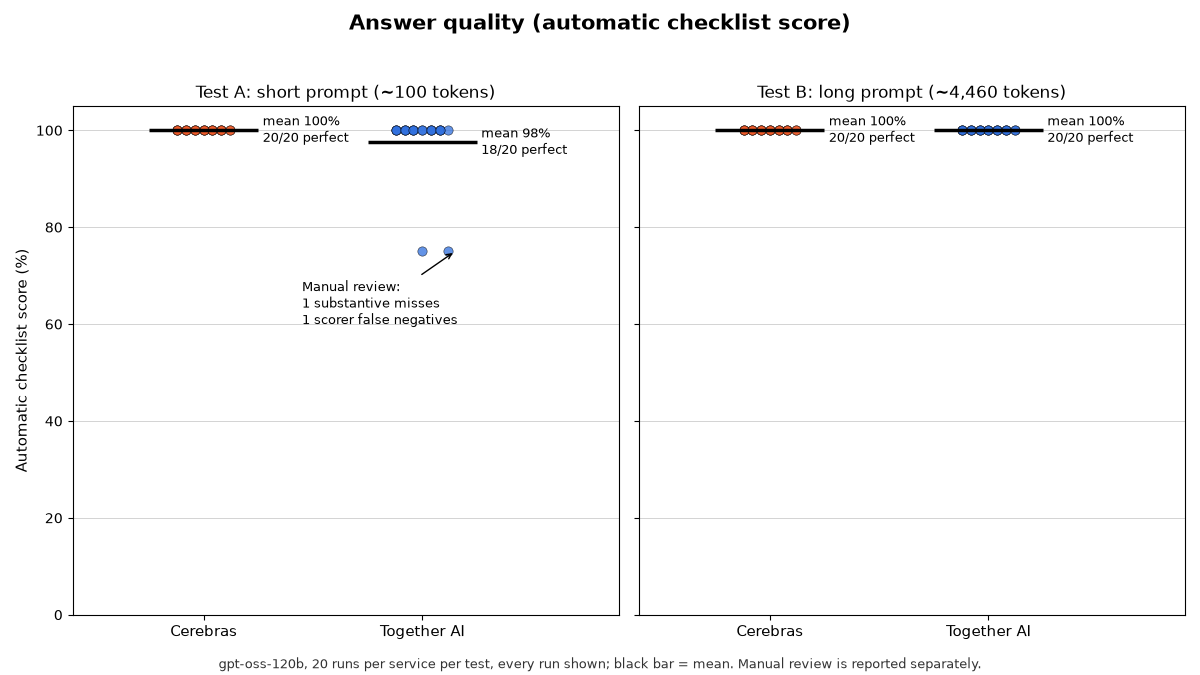
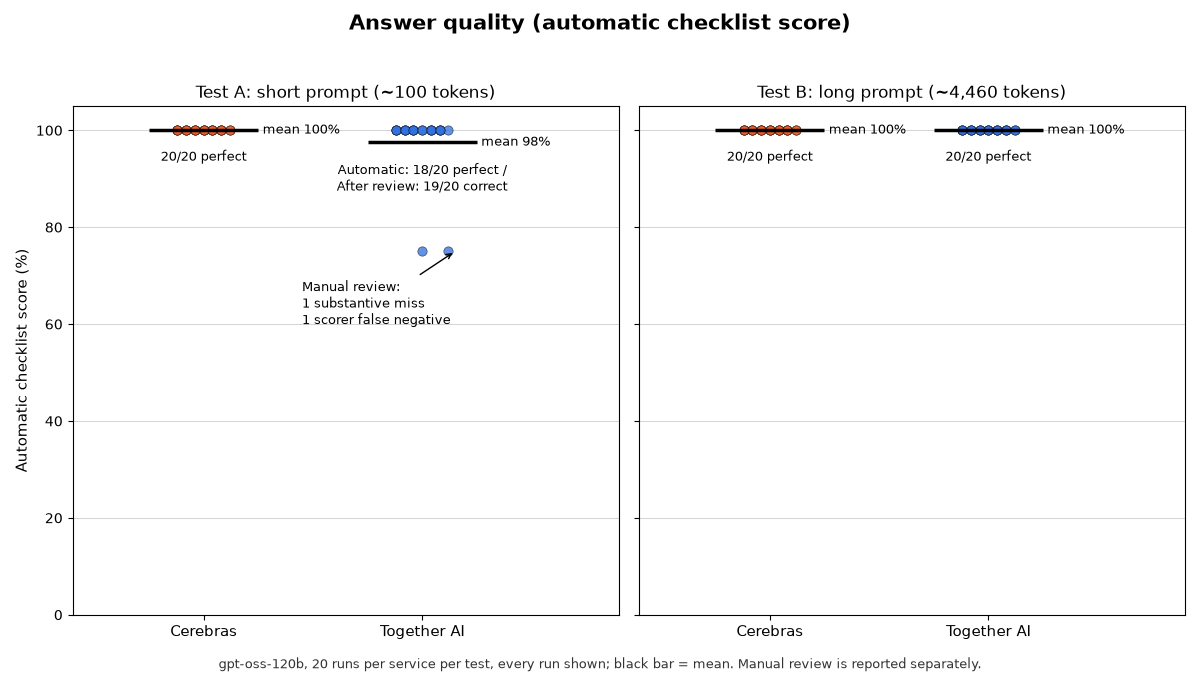
Charts: linear time axis from 0, cap output speed at 3,500 with outlier marker, review-adjusted quality label

diff --git a/analyze.py b/analyze.py
@@ -38,8 +38,7 @@ SERVICE_LABELS = {"cerebras": "Cerebras", "together": "Together AI"}
 SERVICE_COLORS = {"cerebras": "#F05A28", "together": "#2F6FDE"}
 TEST_LABELS = {"short": "Test A: short prompt (~100 tokens)", "long": "Test B: long prompt (~4,460 tokens)"}
 DELAY_THRESHOLD_S = 10  # first answer chunk later than this counts as a delayed request
-LOG_TICKS = (0.2, 0.5, 1, 2, 5, 10, 20, 50)
-
+OUTPUT_SPEED_Y_MAX = 3500  # faster short-stream runs are chunk-timing artifacts; drawn as markers at the top edge
 
 def load_measured():
     records = [json.loads(line) for line in SCORED_FILE.open(encoding="utf-8")]
@@ -110,13 +109,25 @@ def markdown_table(summary):
     return "\n".join(lines)
 
 
-def strip_chart(frame, metric, title, y_label, output_path, log_scale=False):
+def count_phrase(count, singular, plural):
+    return f"{count} {singular if count == 1 else plural}"
+
+
+def strip_chart(frame, metric, title, y_label, output_path, y_max=None):
     fig, axes = plt.subplots(1, 2, figsize=(12, 6.75), dpi=100, sharey=True, facecolor="white")
     for axis, test in zip(axes, TESTS):
         for position, service in enumerate(SERVICES):
             values = frame[(frame["test"] == test) & (frame["service"] == service) & frame["error"].isna()][metric].dropna()
             offsets = [position + ((i % 7) - 3) * 0.04 for i in range(len(values))]
-            axis.scatter(offsets, values, s=45, alpha=0.75, color=SERVICE_COLORS[service], edgecolor="black", linewidth=0.4, zorder=3)
+            in_range = [(offset, value) for offset, value in zip(offsets, values) if y_max is None or value <= y_max]
+            above_range = [(offset, value) for offset, value in zip(offsets, values) if y_max is not None and value > y_max]
+            axis.scatter([offset for offset, _ in in_range], [value for _, value in in_range], s=45, alpha=0.75,
+                         color=SERVICE_COLORS[service], edgecolor="black", linewidth=0.4, zorder=3)
+            for offset, value in above_range:
+                axis.scatter(offset, y_max, s=90, marker="^", color=SERVICE_COLORS[service],
+                             edgecolor="black", linewidth=0.6, zorder=5, clip_on=False)
+                axis.annotate(f"{value:,.0f} (timing artifact, see note)", (offset, y_max),
+                              xytext=(12, -4), textcoords="offset points", va="top", fontsize=9, color="black")
             median = values.median()
             axis.hlines(median, position - 0.25, position + 0.25, color="black", linewidth=2.5, zorder=4)
             axis.annotate(f"median {median:,.2f}" if median < 100 else f"median {median:,.0f}",
@@ -137,15 +148,7 @@ def strip_chart(frame, metric, title, y_label, output_path, log_scale=False):
         axis.set_title(TEST_LABELS[test], fontsize=12)
         axis.grid(axis="y", color="#cccccc", linewidth=0.6, zorder=0)
         axis.set_facecolor("white")
-        if log_scale:
-            axis.set_yscale("log")
-    if log_scale:
-        low, high = axes[0].get_ylim()
-        ticks = [tick for tick in LOG_TICKS if low <= tick <= high]
-        axes[0].set_yticks(ticks, [f"{tick:g}" for tick in ticks])
-        axes[0].set_ylim(low, high)
-        for axis in axes:
-            axis.minorticks_off()
+    axes[0].set_ylim(0, y_max)
     axes[0].set_ylabel(y_label, fontsize=11)
     fig.suptitle(title, fontsize=15, fontweight="bold")
     fig.text(0.5, 0.01, "gpt-oss-120b, 20 runs per service per test, every run shown; black bar = median. "
@@ -169,15 +172,19 @@ def quality_chart(frame, manual_verdicts, output_path):
             perfect_count = int((scores == 100).sum())
             axis.hlines(mean_score, position - 0.25, position + 0.25,
                         color="black", linewidth=2.5, zorder=4)
-            axis.annotate(
-                f"mean {mean_score:.0f}%\n{perfect_count}/{len(scores)} perfect",
-                (position + 0.27, mean_score), va="center", fontsize=9, color="black",
-            )
             missed = runs[runs["quality_score"] < runs["quality_max"]]
+            verdicts = [verdict_by_run.get((service, run_id)) for run_id in missed["run_id"]]
+            correct_after_review = perfect_count + verdicts.count("correct")
+            axis.annotate(f"mean {mean_score:.0f}%", (position + 0.27, mean_score), va="center", fontsize=9, color="black")
+            if correct_after_review == perfect_count:
+                count_label = f"{perfect_count}/{len(scores)} perfect"
+            else:
+                count_label = (f"Automatic: {perfect_count}/{len(scores)} perfect /\n"
+                               f"After review: {correct_after_review}/{len(scores)} correct")
+            axis.annotate(count_label, (position, mean_score - 4), ha="center", va="top", fontsize=9, color="black")
             if len(missed):
-                verdicts = [verdict_by_run.get((service, run_id)) for run_id in missed["run_id"]]
-                parts = [f"{verdicts.count('imperfect')} substantive misses",
-                         f"{verdicts.count('correct')} scorer false negatives",
+                parts = [count_phrase(verdicts.count("imperfect"), "substantive miss", "substantive misses"),
+                         count_phrase(verdicts.count("correct"), "scorer false negative", "scorer false negatives"),
                          f"{verdicts.count(None)} pending review"]
                 axis.annotate(
                     "Manual review:\n" + "\n".join(part for part in parts if not part.startswith("0 ")),
@@ -211,9 +218,9 @@ def main():
 
     CHARTS_DIR.mkdir(exist_ok=True)
     strip_chart(frame, "first_answer_chunk_s", "Time to first answer chunk (lower is better)",
-                "Seconds (log scale)", CHARTS_DIR / "time_to_first_answer.png", log_scale=True)
+                "Seconds", CHARTS_DIR / "time_to_first_answer.png")
     strip_chart(frame, "output_tok_per_s", "Output speed (higher is better)",
-                "Tokens per second", CHARTS_DIR / "output_speed.png")
+                "Tokens per second", CHARTS_DIR / "output_speed.png", y_max=OUTPUT_SPEED_Y_MAX)
     quality_chart(frame, manual_verdicts, CHARTS_DIR / "quality_score.png")
 
     print(markdown_table(summary))
